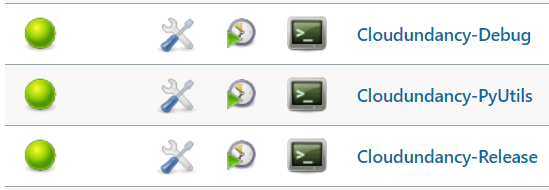
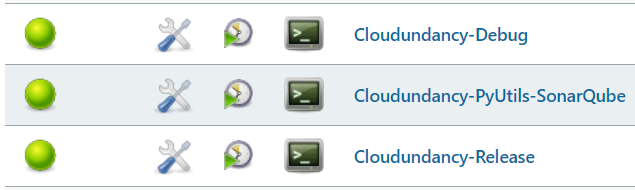
Update Windows Jenkins jobs screenshot

diff --git a/README.md b/README.md
@@ -23,7 +23,7 @@ Cloudundancy is rigorously unit tested with <a href="https://github.com/NeilJust
 * [Cloudundancy Code Structure As It Appears In Visual Studio Code](#cloudundancy-code-structure-as-it-appears-in-visual-studio-code)
 * [Cloudundancy Code Structure As It Appears In Visual Studio 2019](#cloudundancy-code-structure-as-it-appears-in-visual-studio-2019)
 * [Linux Jenkins Jobs Which Build, clang-tidy, AddressSanitize, and UndefinedBehaviorSanitize Cloudundancy](#linux-jenkins-jobs-which-build-clang-tidy-addresssanitize-and-undefinedbehaviorsanitize-cloudundancy)
-* [Windows Jenkins Jobs Which Build Cloudundancy](#windows-jenkins-jobs-which-build-cloudundancy)
+* [Windows Jenkins Jobs Which Build Cloudundancy And SonarQube Scan Cloudundancy's Python Code](#windows-jenkins-jobs-which-build-cloudundancy-and-sonarqube-scan-cloudundancys-python-code)
 * [How To Build Binary cloudundancy From Source On Linux With Clang](#how-to-build-binary-cloudundancy-from-source-on-linux-with-clang)
 * [How To Build Executable Cloudundancy.exe From Source On Windows with Visual Studio 2019](#how-to-build-executable-cloudundancy.exe-from-source-on-windows-with-visual-studio-2019)
 * [Cloudundancy Roadmap](#future-features-roadmap)
@@ -273,13 +273,13 @@ Seen in this screenshot is the `CloudundancyProgram::Main(int argc, char* argv[]
 
 ## Linux Jenkins jobs Which Build, clang-tidy, AddressSanitize, and UndefinedBehaviorSanitize Cloudundancy
 
-A Jenkins Blue Ocean build pipeline builds the following Cloudundancy Jenkins jobs on Fedora 33 with Clang and GCC:
+A Jenkins Blue Ocean build pipeline builds the following Jenkins jobs on Fedora 33:
 
 ![Linux Cloudundancy Jenkins jobs](Screenshots/Linux/LinuxCloudundancyJenkinsJobs.png)
 
-## Windows Jenkins Jobs Which Build Cloudundancy
+## Windows Jenkins Jobs Which Build Cloudundancy And SonarQube Scan Cloudundancy's Python Code
 
-A Jenkins Blue Ocean build pipeline builds the following Cloudundancy Jenkins jobs on Windows 10 with Visual Studio 2019:
+A Jenkins Blue Ocean build pipeline builds the following Jenkins jobs on Windows 10:
 
 ![Cloudundancy Windows Jenkins jobs](Screenshots/Windows/WindowsJenkinsJobs.png)
 
